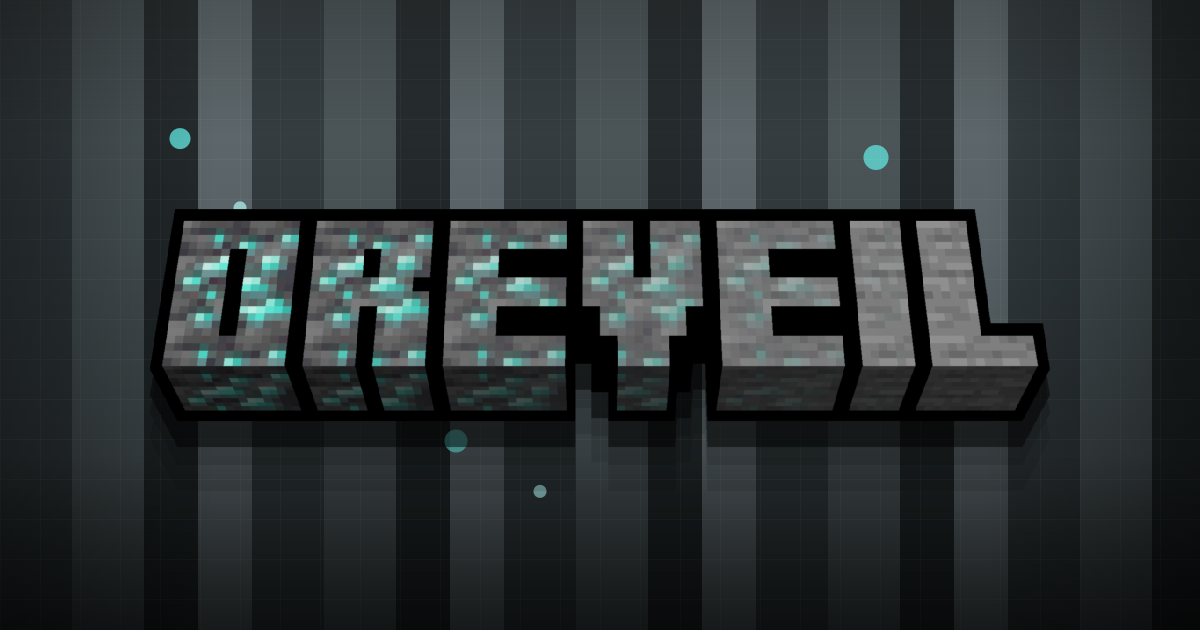
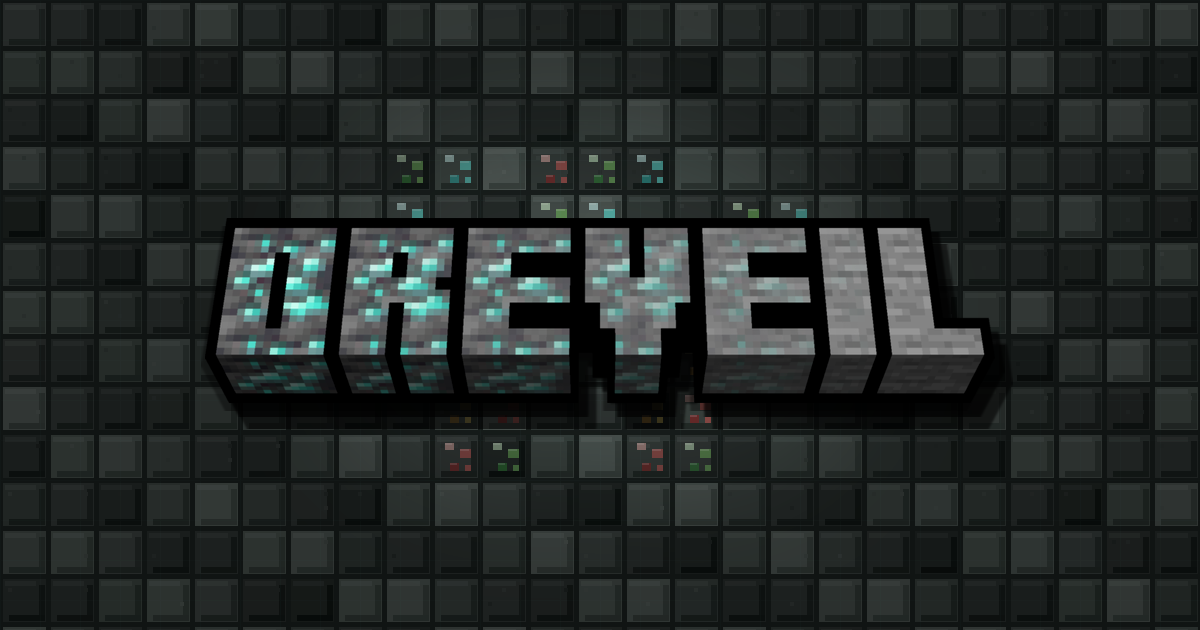
yay

diff --git a/oreveil/index.html b/oreveil/index.html
@@ -67,12 +67,12 @@
     .bgBlock{position:relative;width:48px;height:48px;min-width:48px;min-height:48px;background:linear-gradient(135deg,rgba(255,255,255,.10),transparent 44%),var(--stone);border:2px solid #252d2a;box-shadow:inset -7px -7px 0 rgba(0,0,0,.22);transition:filter .12s ease}
     .bgBlock:nth-child(3n){background-color:var(--stone2)}.bgBlock:nth-child(4n){background-color:var(--stone3)}.bgBlock:nth-child(7n){background-color:#55605c}.bgBlock:nth-child(11n){background-color:#2f3634}
     .bgBlock::before{content:"";position:absolute;inset:0;background:linear-gradient(90deg,rgba(255,255,255,.06) 1px,transparent 1px),linear-gradient(0deg,rgba(0,0,0,.12) 1px,transparent 1px);background-size:18px 18px;opacity:.45}
-    .bgBlock::after{content:"";position:absolute;inset:18%;opacity:0;transition:opacity .08s steps(2,end)}
-    .ore-diamond::after{background:radial-gradient(circle at 25% 25%,var(--diamond2) 0 10%,transparent 11%),radial-gradient(circle at 68% 42%,var(--diamond) 0 16%,transparent 17%),radial-gradient(circle at 40% 75%,rgba(105,246,234,.88) 0 12%,transparent 13%);filter:drop-shadow(0 0 12px rgba(105,246,234,.62))}
-    .ore-gold::after{background:radial-gradient(circle at 28% 30%,#fff0a4 0 10%,transparent 11%),radial-gradient(circle at 67% 48%,var(--gold) 0 16%,transparent 17%),radial-gradient(circle at 40% 74%,#c9912d 0 12%,transparent 13%);filter:drop-shadow(0 0 11px rgba(242,207,98,.5))}
-    .ore-redstone::after{background:radial-gradient(circle at 30% 28%,#ffc0b9 0 10%,transparent 11%),radial-gradient(circle at 67% 45%,var(--red) 0 16%,transparent 17%),radial-gradient(circle at 40% 74%,#ad2b28 0 12%,transparent 13%);filter:drop-shadow(0 0 11px rgba(223,98,93,.5))}
-    .ore-emerald::after{background:radial-gradient(circle at 31% 30%,#dcffd7 0 10%,transparent 11%),radial-gradient(circle at 67% 48%,var(--green) 0 16%,transparent 17%),radial-gradient(circle at 40% 74%,#3c9d40 0 12%,transparent 13%);filter:drop-shadow(0 0 11px rgba(127,202,104,.48))}
-    .bgBlock.ore.revealed,.bgBlock.ore:focus-visible{z-index:2;filter:brightness(1.015)}
+    .bgBlock::after{content:"";position:absolute;inset:0;opacity:0;transition:opacity .08s steps(2,end);background-repeat:no-repeat}
+    .ore-diamond::after{background-image:linear-gradient(var(--diamond2),var(--diamond2)),linear-gradient(var(--diamond),var(--diamond)),linear-gradient(#2fb7b0,#2fb7b0),linear-gradient(rgba(213,255,251,.38),rgba(213,255,251,.38));background-size:8px 6px,10px 8px,8px 7px,8px 2px;background-position:13px 11px,28px 17px,18px 31px,13px 11px}
+    .ore-gold::after{background-image:linear-gradient(#fff0a4,#fff0a4),linear-gradient(var(--gold),var(--gold)),linear-gradient(#b9822f,#b9822f),linear-gradient(rgba(255,240,164,.34),rgba(255,240,164,.34));background-size:8px 6px,10px 8px,8px 7px,8px 2px;background-position:13px 11px,28px 17px,18px 31px,13px 11px}
+    .ore-redstone::after{background-image:linear-gradient(#ffc2bc,#ffc2bc),linear-gradient(var(--red),var(--red)),linear-gradient(#9f2828,#9f2828),linear-gradient(rgba(255,194,188,.32),rgba(255,194,188,.32));background-size:8px 6px,10px 8px,8px 7px,8px 2px;background-position:13px 11px,28px 17px,18px 31px,13px 11px}
+    .ore-emerald::after{background-image:linear-gradient(#dcffd7,#dcffd7),linear-gradient(var(--green),var(--green)),linear-gradient(#348c3b,#348c3b),linear-gradient(rgba(220,255,215,.32),rgba(220,255,215,.32));background-size:8px 6px,10px 8px,8px 7px,8px 2px;background-position:13px 11px,28px 17px,18px 31px,13px 11px}
+    .bgBlock.ore.revealed,.bgBlock.ore:focus-visible{z-index:2;filter:brightness(1.005)}
     .bgBlock.ore.revealed::after,.bgBlock.ore:focus-visible::after{opacity:1}
 
     .page{position:relative;z-index:1;min-height:100vh;pointer-events:none}.page a,.page button{pointer-events:auto}
